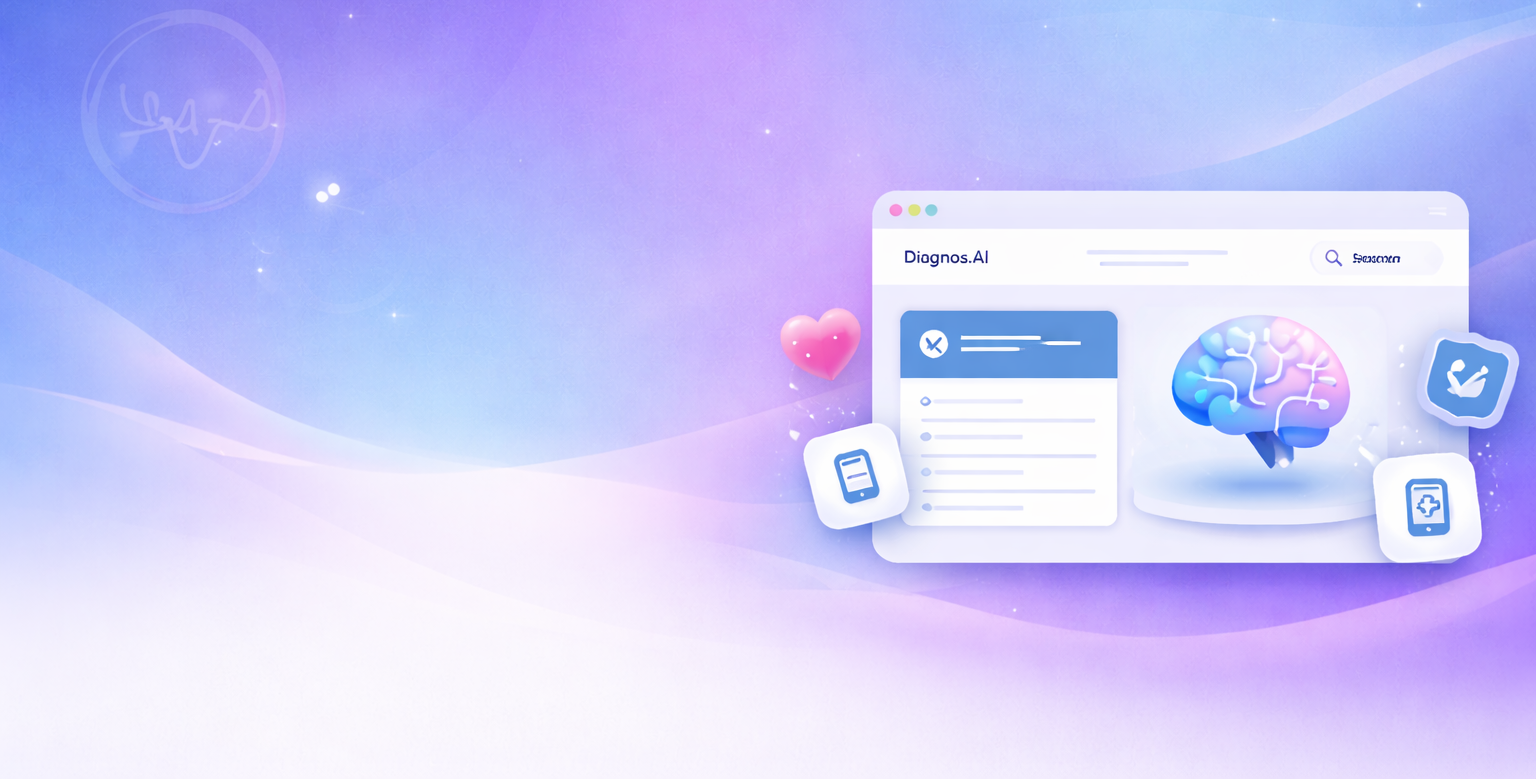
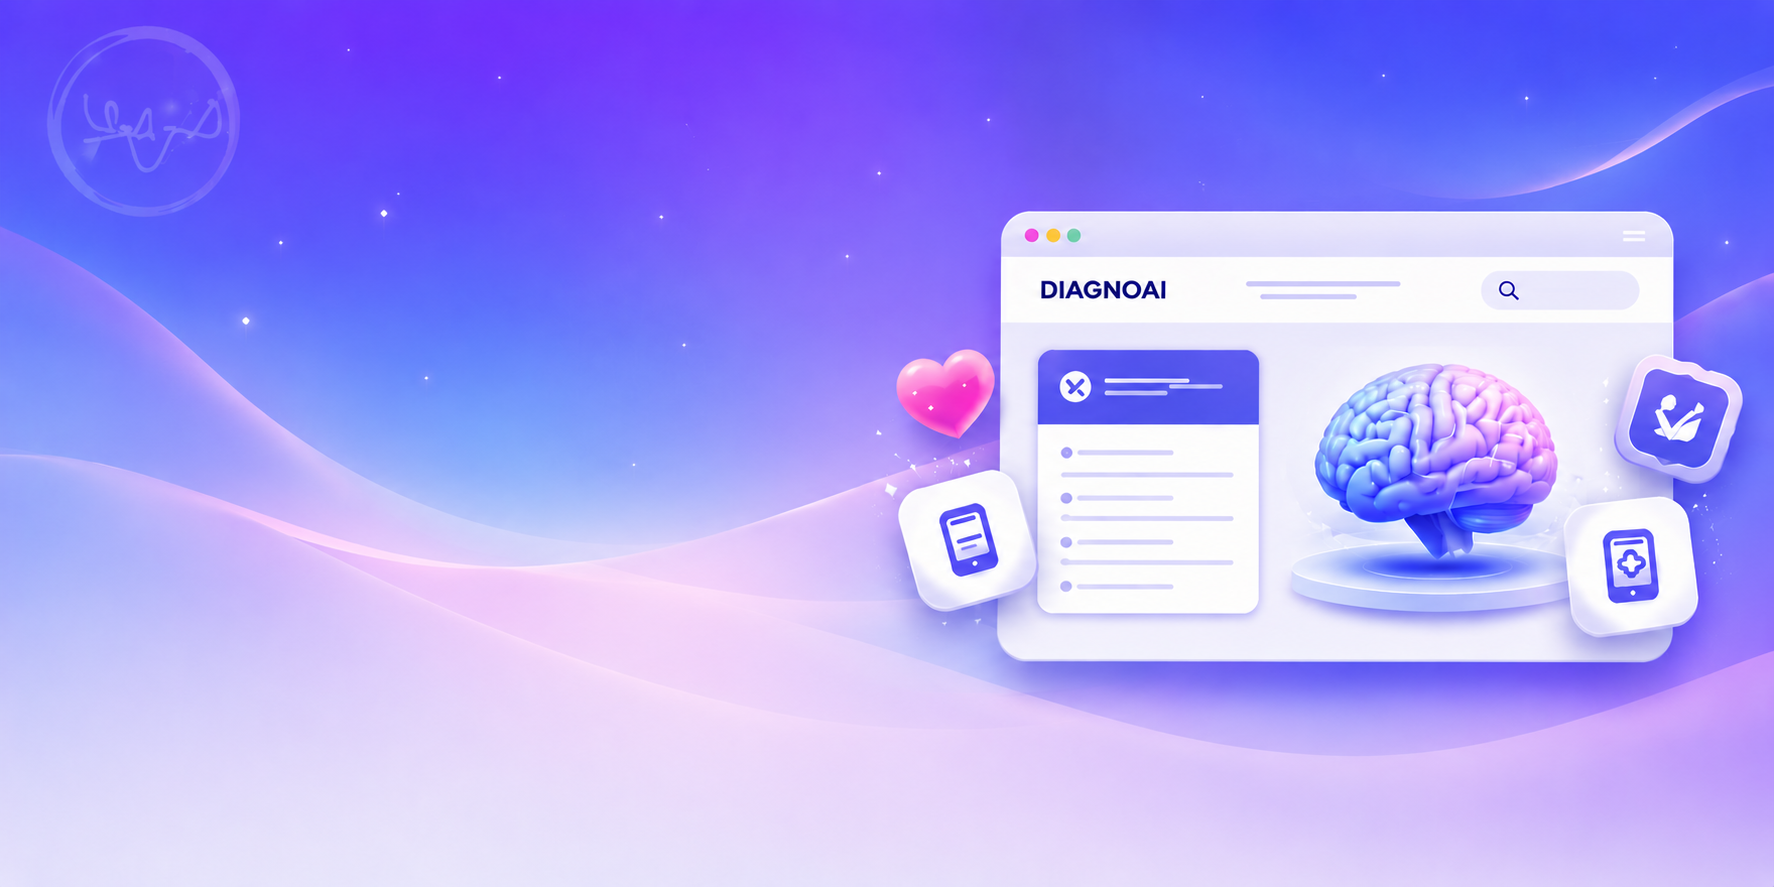
UI improvements

diff --git a/disease-prediction-frontend/src/components/Header.jsx b/disease-prediction-frontend/src/components/Header.jsx
@@ -1,22 +1,22 @@
-import logo from "../assets/images/Logo2.png"
+import logo from "../assets/images/diagnoai_white.png"
 import { Link } from "react-router-dom";
 import { useNavigate } from "react-router-dom";
 
 function Header(){
     const navigate = useNavigate()
     return(
-        <div className=" shadow-2xl backdrop-blur-md rounded-b-2xl flex justify-between sticky top-0 z-50">
+        <div className=" max-w-full shadow-2xl backdrop-blur-md rounded-b-2xl flex justify-between sticky top-0 z-50">
             <div className="pt-3 pl-6" >
                 <Link to="/">
-                    <img className="h-10 w-auto" src={logo} alt="Image" />
+                    <img className="h-10 w-auto" src={logo} alt="Image"/>
                 </Link>
             </div>
-            <div className="p-2 pr-23 pt-5 pb-5" >
-                <Link to="/" className="p-2" >Home</Link>
+            <div className="p-2 pr-23 pt-5 pb-5 text-white" >
+                <Link to="/" className="p-2 " >Home</Link>
                 <Link className="p-2" to="/about">About</Link>
                 <Link className="p-2" to="/contact">Contact</Link>
                 <Link className="p-2" to="/donate">Donate</Link>
-                <button className=" bg-blue-800 text-white hover:bg-blue-500 px-3 border-gray-400 rounded-3xl hover:shadow-lg hover:scale-105" onClick={()=>navigate("/startPage")}>Start</button>
+                <button className="ml-2 bg-blue-800 text-white hover:bg-blue-500 px-4 border-gray-400 rounded-3xl hover:shadow-lg hover:scale-105" onClick={()=>navigate("/startPage")}>Start</button>
             </div>
         </div>
     )

diff --git a/disease-prediction-frontend/src/pages/StartPage.jsx b/disease-prediction-frontend/src/pages/StartPage.jsx
@@ -45,7 +45,7 @@ const StartPage = () => {
         }
     }
     return(
-        <div className=" max-w-4xl bg-white/60 backdrop-blur-lg border border-white/20 shadow-xl mx-auto my-10 rounded-3xl p-7">
+        <div className=" max-w-2xl bg-white/60 backdrop-blur-lg border border-white/20 shadow-xl mx-auto my-10 rounded-3xl p-7">
             <PageTitle title="Information Input Form" paragraph="Enter the details below to analyse the Patient's symptoms"/>
             {/*The Select Component*/}
             <select
@@ -63,9 +63,9 @@ const StartPage = () => {
             </select>  
 
             {/*Dynamic Form*/}
-            <form onSubmit={handleSubmit} className="w-full max-w-md bg-white/10 backdrop-blur-md p-6 rounded-xl space-y-4" >
+            <form onSubmit={handleSubmit} className="w-full max-w-xl bg-white/10 backdrop-blur-md p-6 rounded-xl space-y-3 mx-auto" >
                 {fields.length === 0 && (
-                    <p className="text-center text-gray-400"> Please Select a Disease :</p>
+                    <p className="text-center text-gray-400"> Please select a disease to have access to the input form.</p>
                 )}
                 {fields.map((field) => (
                     <div key={field.name}>
@@ -101,7 +101,7 @@ const StartPage = () => {
         ))}
 
         {fields.length > 0 && (
-          <button type="submit" className="w-full bg-purple-600 hover:bg-purple-700 p-2 rounded mt-4" >
+          <button type="submit" className="w-full text-white bg-purple-600 hover:bg-purple-700 p-2 rounded mt-4" >
             Predict
           </button>
         )}

diff --git a/disease-prediction-frontend/src/components/Footer.jsx b/disease-prediction-frontend/src/components/Footer.jsx
@@ -3,14 +3,14 @@ import { useNavigate } from "react-router-dom"
 function Footer(){
     const navigate = useNavigate()
     return(
-        <div className= "text-cyan-50 flex justify-between bg-[url(/src/assets/images/FooterBG.png)] bg-bottom-left">
-            <img className=" h-10 w-auto p-2 m-2"  src={logo}/>
+        <div className= "mb-0.5 text-cyan-50 flex justify-around bg-violet-900 rounded-3xl max-w-7xl">
+            <img className=" h-12 w-auto p-2 my-auto"  src={logo}/>
             <div className="my-3">
                 <h1>Start your Health Check Now!</h1>
                 <p>Get insights in seconds with our AI-powered tool.</p>
-                <button className=" my-2 bg-red-600 px-3 rounded-lg text-l hover:scale-110 transition-transform hover:bg-green-600 shadow-lg hover:shadow-green-900" onClick={()=>navigate("/startPage")}>Start Diagnosis</button>
+                
             </div>
-            <p className="p-2">© {new Date().getFullYear()} DiagnoAI. All rights reserved.</p>
+            <button className=" my-5 bg-red-600 px-2 py-1 rounded-lg text-l hover:scale-110 transition-transform hover:bg-green-600 shadow-lg hover:shadow-green-900" onClick={()=>navigate("/startPage")}>Start Diagnosis</button>
         </div>
     )
 }

diff --git a/disease-prediction-frontend/src/pages/Home.jsx b/disease-prediction-frontend/src/pages/Home.jsx
@@ -61,8 +61,8 @@ function Home(){
 
     return(
         <>
-            <div className="bg-[url(./src/assets/images/HeaderIntegrated.png)] bg-cover -mt-30 pb-10 pt-40">
-                <div className="max-w-md p-6 text-mist-100">
+            <div className="bg-[url(./src/assets/images/HeaderIntegrated.png)] bg-cover -mt-17 pb-10 pt-40">
+                <div className="max-w-md p-6 text-mist-100 mb-10">
                     <h1 className="font-bold p-2 text-3xl">AI-Powered Disease Prediction in Seconds</h1>
                     <p className="italic m-1 text-black">Get accurate health insights instantly with advance AI technology.</p>
                     <div className="p-2">

diff --git a/disease-prediction-frontend/src/pages/Contact.jsx b/disease-prediction-frontend/src/pages/Contact.jsx
@@ -4,7 +4,7 @@ function Contact() {
   const title = "Contact Us"
   const paragraph = "Have questions, feedback, or suggestions? We'd love to hear from you."
   return (
-    <div className=" max-w-5xl bg-white/60 backdrop-blur-lg border border-white/20 shadow-xl mx-auto my-10 rounded-3xl p-7">
+    <div className=" max-w-3xl bg-white/60 backdrop-blur-lg border border-white/20 shadow-xl mx-auto my-10 rounded-3xl p-7">
       <PageTitle title={title} paragraph={paragraph}/>
       <h1>Reach out to us and we'll get back to you as soon as possible.</h1>
       <form className="bg-blue-50 flex flex-col m-5 p-5 rounded-3xl">
